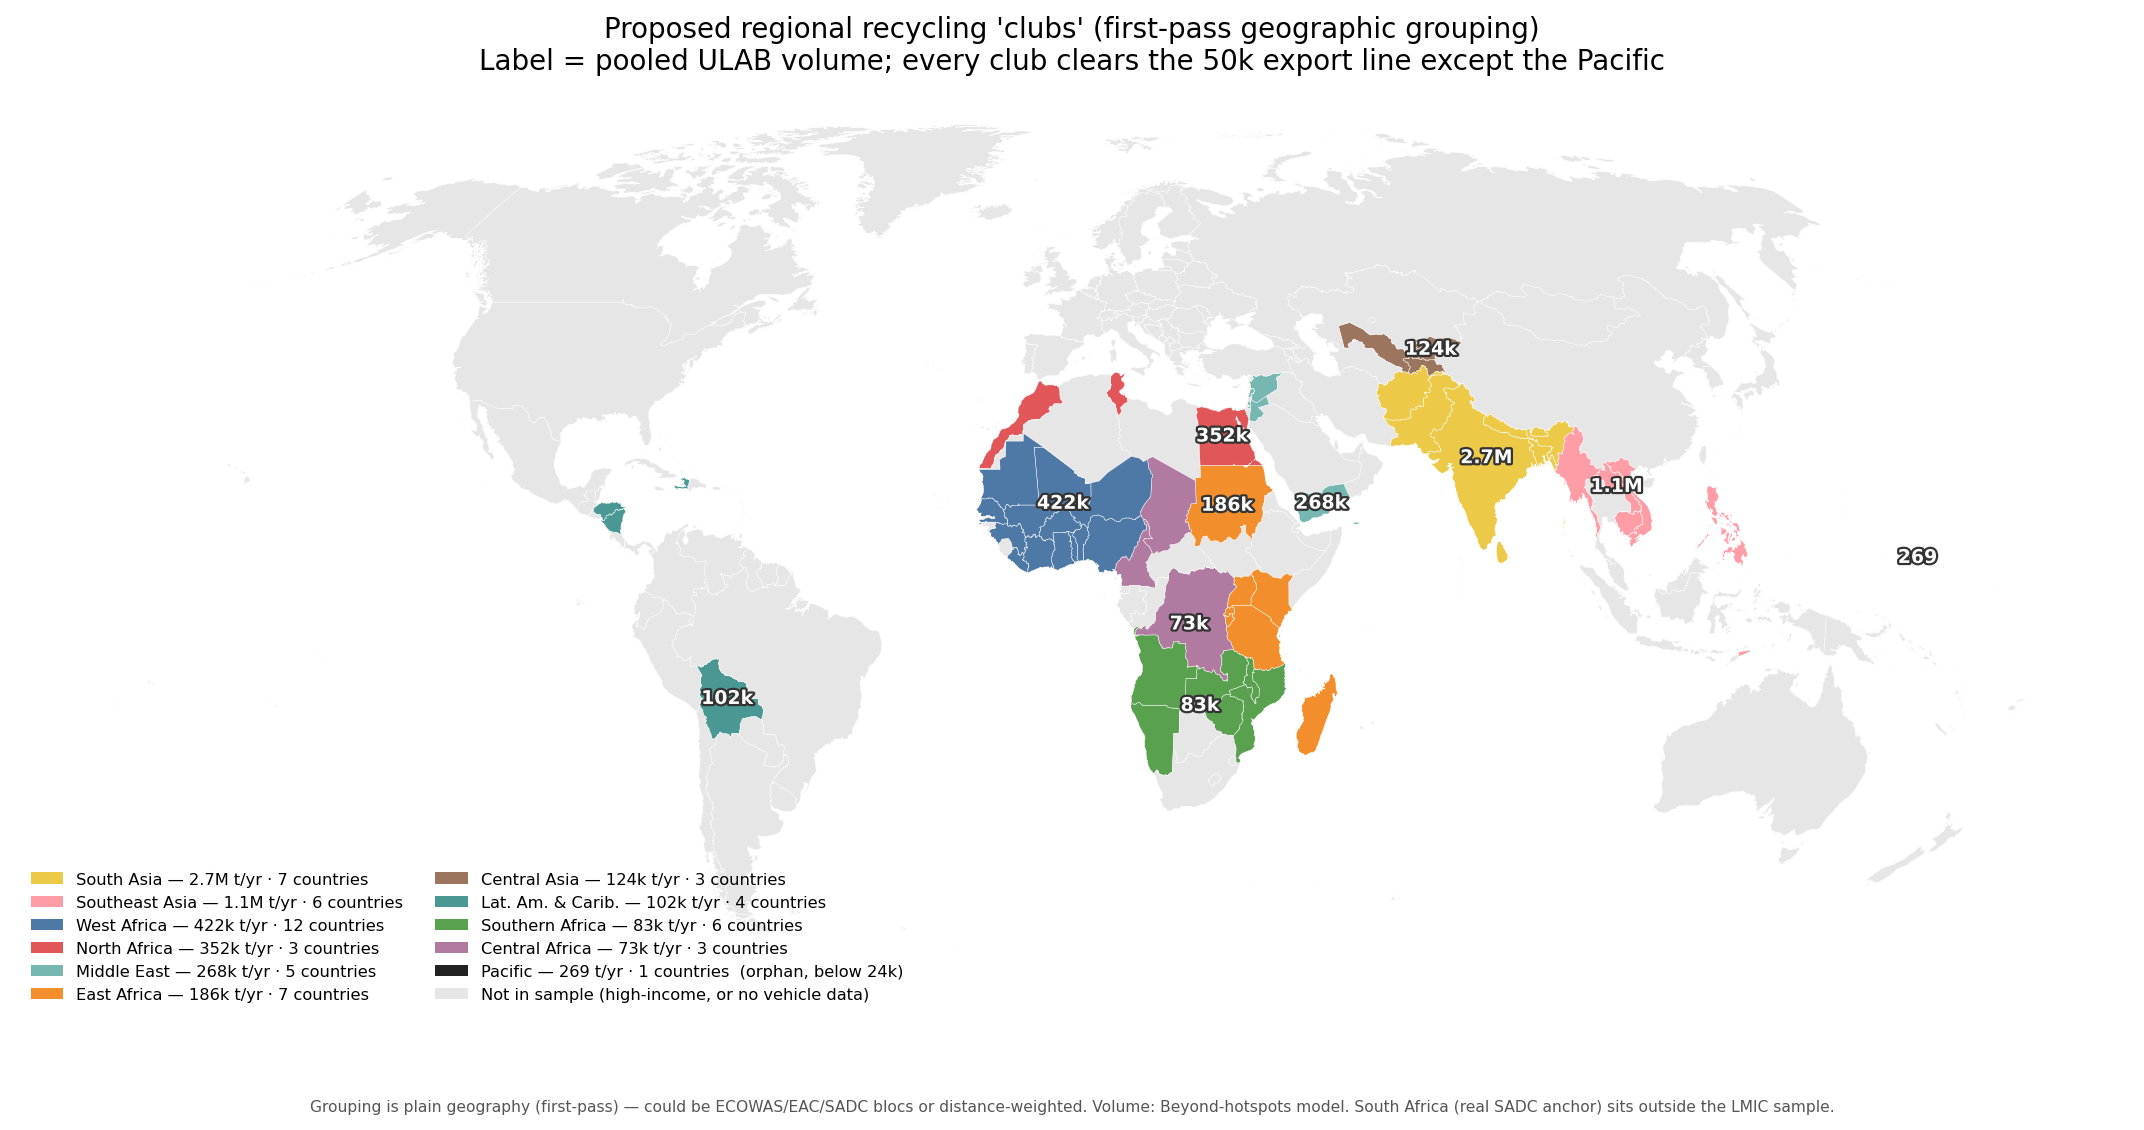
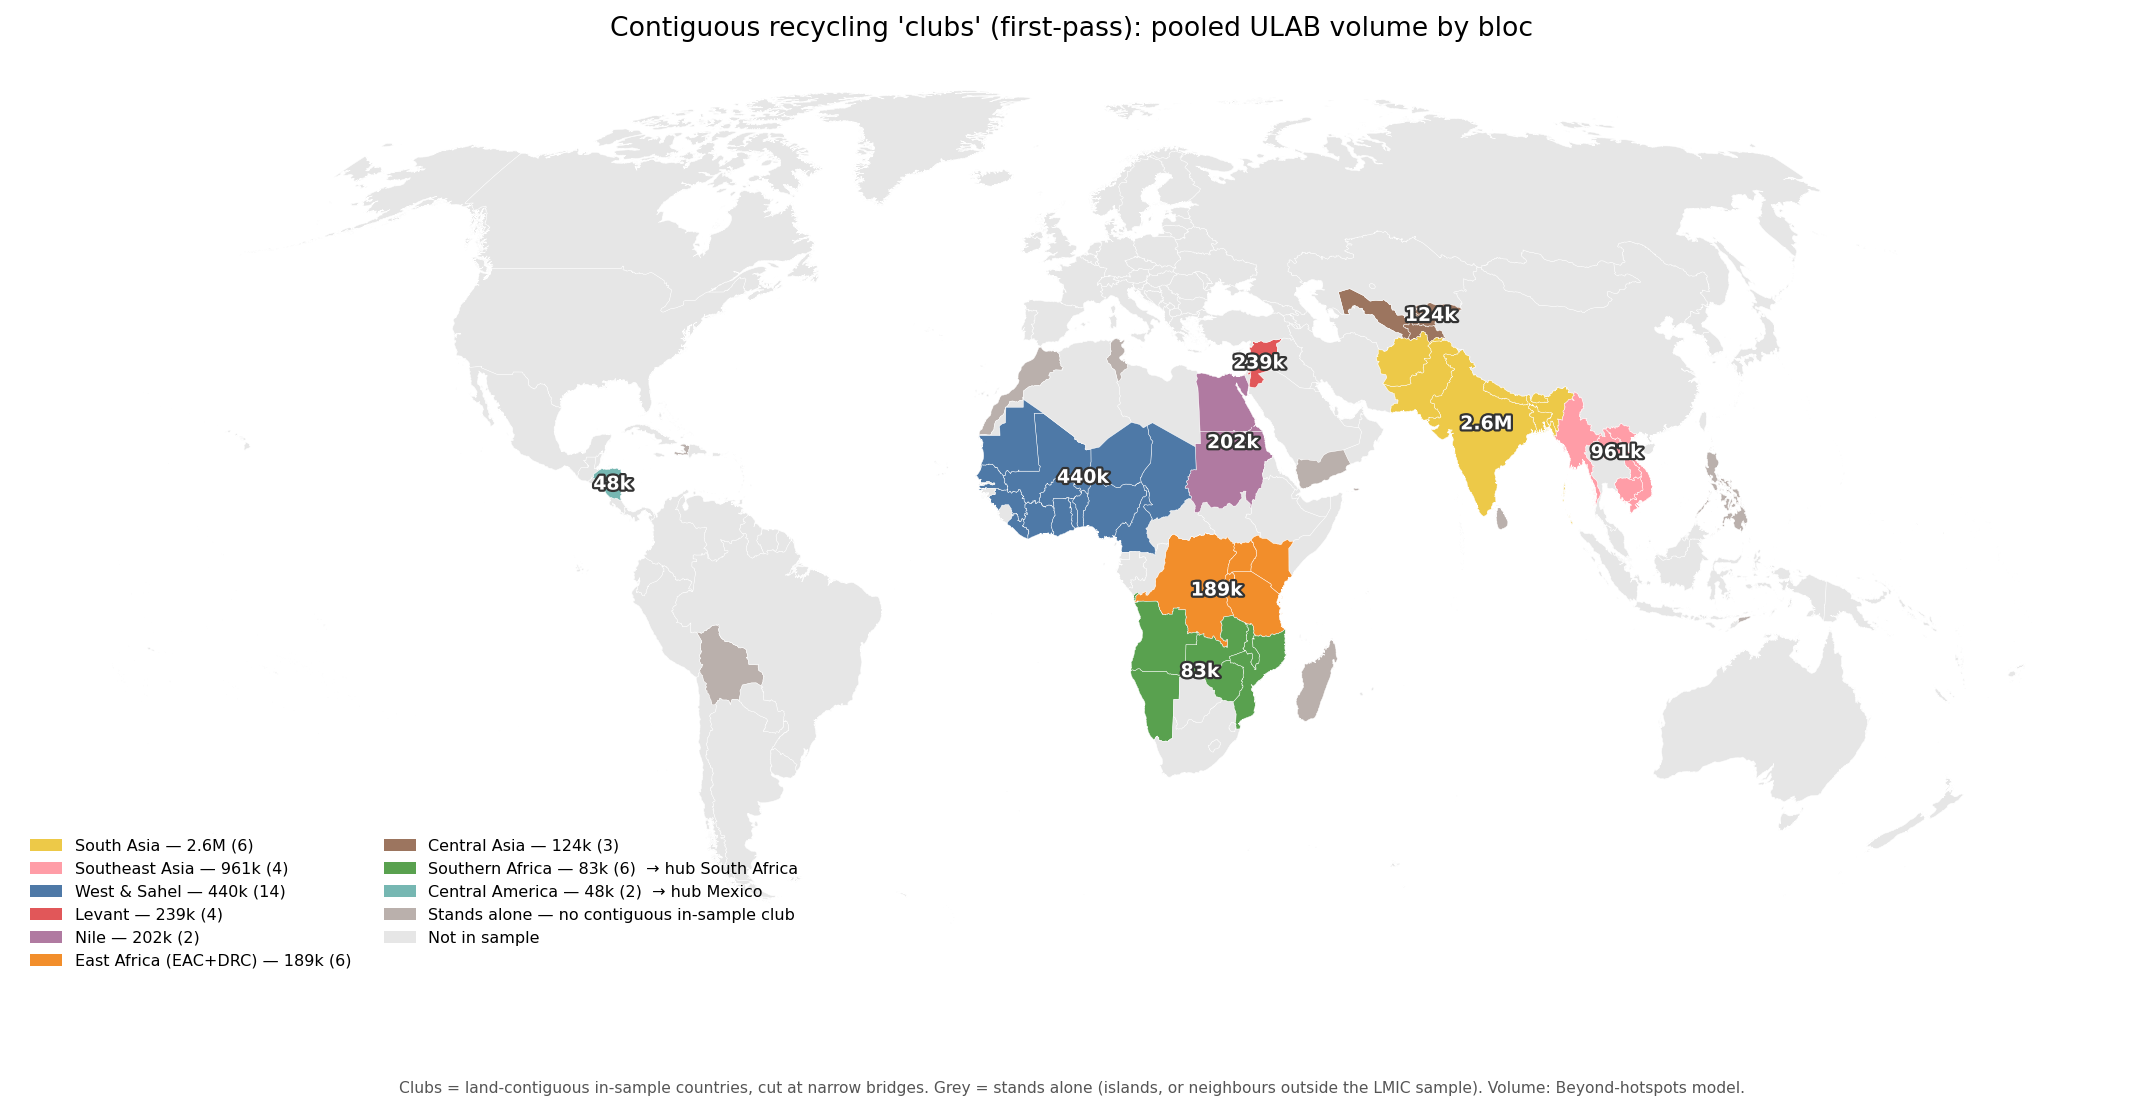
Switch to contiguous-club grouping (shared regions.py); update maps, captions, data

diff --git a/index.html b/index.html
@@ -38,7 +38,7 @@
   <h2>2. But pooling regionally reaches scale almost everywhere</h2>
   <figure>
     <img src="fig2_regional_clubs.png" alt="Pooled regional ULAB volume vs threshold band">
-    <figcaption>Pooled ULAB volume by region. Every region except the Pacific clears not just break-even (24k) but the full 50k export line. 18 of the 19 individually-below-floor countries sit in a region whose combined volume would support a safe facility.</figcaption>
+    <figcaption>Pooled volume by contiguous club &mdash; sets of countries that share land borders. Eight of the nine multi-country clubs clear the 50k line; Central America clears only break-even. Countries with no contiguous in-sample neighbour (islands, or those whose neighbours sit outside the sample) are shown in grey and stand alone &mdash; some clear on their own (Morocco, Philippines, Sri Lanka, Tunisia, Bolivia), three small islands do not (Haiti, Micronesia, Timor-Leste).</figcaption>
   </figure>
 
   <h2>3. The viability map</h2>
@@ -50,7 +50,7 @@
   <h2>4. Proposed regional &ldquo;clubs&rdquo;</h2>
   <figure>
     <img src="fig4_map_clubs.png" alt="World map of proposed regional recycling clubs">
-    <figcaption>A first-pass geographic grouping into regional catchments, each labelled with its pooled volume. Grouping is plain geography for now &mdash; it could instead follow ECOWAS/EAC/SADC blocs or be weighted by transport distance.</figcaption>
+    <figcaption>Contiguous recycling clubs: each coloured cluster is a set of land-bordering countries, cut at the narrow bridges so no club spans a continent. Grey countries stand alone, with no contiguous in-sample partner. Two clubs lean on a hub outside the low- and middle-income sample &mdash; South Africa for Southern Africa, Mexico for Central America.</figcaption>
   </figure>
 
   <footer>

diff --git a/code/02_regional_clubs.py b/code/02_regional_clubs.py
@@ -1,82 +1,48 @@
-"""
-Regional aggregation ("clubbing") — could sub-threshold countries pool to viable scale?
-Reads data/ulab_volume_by_country.csv (from 01_*). Groups the 57 LMICs into geographic
-sub-regions, sums ULAB volume, and flags which individually-below-floor countries sit in
-a region whose pooled volume clears the safe-recycling break-even (24k whole-battery t/yr).
-First-pass geographic grouping — open to regrouping (ECOWAS/EAC/SADC, distance-weighted, etc.).
-NB: some regions' real anchor is an out-of-sample country (esp. South Africa for Southern Africa).
+"""Pooled ULAB volume by contiguous club vs the safe-recycling band.
+
+Clubs come from regions.py (land-contiguous in-sample countries, cut at narrow bridges).
+Single-country "clubs" are countries with no contiguous in-sample neighbour (islands or
+countries whose neighbours are outside the LMIC sample) — drawn in the standalone colour.
 """
 from pathlib import Path
 import pandas as pd, numpy as np
 import matplotlib; matplotlib.use("Agg"); import matplotlib.pyplot as plt
+from regions import CLUB, CLUB_COLORS, STANDALONE
 
 BASE = Path(__file__).resolve().parent.parent  # project/repo root (this file is in code/)
 T_MOD, T_BE, T_EXP = 12_000, 24_000, 50_000
 
 df = pd.read_csv(BASE / "data" / "ulab_volume_by_country.csv")
+df["club"] = df["iso3"].map(CLUB)
+if df["club"].isna().any():
+    print("UNMAPPED:", df.loc[df["club"].isna(), "iso3"].tolist())
 
-REGION = {
- 'NGA':'West Africa','GHA':'West Africa','SEN':'West Africa','CIV':'West Africa','MLI':'West Africa',
- 'BFA':'West Africa','NER':'West Africa','BEN':'West Africa','TGO':'West Africa','GIN':'West Africa',
- 'LBR':'West Africa','MRT':'West Africa',
- 'COD':'Central Africa','CMR':'Central Africa','TCD':'Central Africa',
- 'KEN':'East Africa','TZA':'East Africa','UGA':'East Africa','RWA':'East Africa','BDI':'East Africa',
- 'SDN':'East Africa','MDG':'East Africa',
- 'ZMB':'Southern Africa','ZWE':'Southern Africa','MWI':'Southern Africa','MOZ':'Southern Africa',
- 'AGO':'Southern Africa','NAM':'Southern Africa',
- 'EGY':'North Africa','TUN':'North Africa','MAR':'North Africa',
- 'JOR':'Middle East','LBN':'Middle East','SYR':'Middle East','PSE':'Middle East','YEM':'Middle East',
- 'IND':'South Asia','PAK':'South Asia','BGD':'South Asia','NPL':'South Asia','BTN':'South Asia',
- 'LKA':'South Asia','AFG':'South Asia',
- 'VNM':'Southeast Asia','MMR':'Southeast Asia','KHM':'Southeast Asia','LAO':'Southeast Asia',
- 'PHL':'Southeast Asia','TLS':'Southeast Asia',
- 'UZB':'Central Asia','TJK':'Central Asia','KGZ':'Central Asia',
- 'BOL':'Lat. Am. & Carib.','HND':'Lat. Am. & Carib.','NIC':'Lat. Am. & Carib.','HTI':'Lat. Am. & Carib.',
- 'FSM':'Pacific',
-}
-EXT_ANCHOR = {'Southern Africa':'South Africa (out of sample; First Battery/Frys already operate)'}
+g = df.groupby("club").agg(total=("ulab_t", "sum"), n=("iso3", "size")).reset_index()
+g["is_club"] = g["n"] > 1
+g = g.sort_values("total").reset_index(drop=True)
+g.to_csv(BASE / "data" / "clubs.csv", index=False)
+print(g.sort_values("total", ascending=False).to_string(formatters={"total": "{:,.0f}".format}))
 
-df['region'] = df['iso3'].map(REGION)
-unmapped = df[df['region'].isna()]
-if len(unmapped): print("UNMAPPED:", unmapped[['country','iso3']].values.tolist())
-
-g = (df.groupby('region')
-       .agg(total=('ulab_t','sum'), n=('iso3','size'),
-            n_below_floor=('ulab_t', lambda s:int((s<T_MOD).sum())),
-            biggest=('ulab_t','max'))
-       .reset_index().sort_values('total', ascending=False))
-g['clears_breakeven'] = g['total'] >= T_BE
-g.to_csv(BASE / "data" / "regional_clubs.csv", index=False)
-print(g.to_string(formatters={'total':'{:,.0f}'.format,'biggest':'{:,.0f}'.format}))
-
-df['region_total'] = df['region'].map(g.set_index('region')['total'])
-below = df[df['ulab_t'] < T_MOD].copy()
-below['rescued'] = below['region_total'] >= T_BE
-print(f"\nBelow-floor countries: {len(below)}")
-print(f"  rescued by regional club (region total >= 24k): {int(below['rescued'].sum())}")
-print(f"  orphans (region also below 24k): {int((~below['rescued']).sum())}")
-print(below[['country','region','ulab_t','region_total','rescued']]
-        .sort_values(['region_total','ulab_t']).to_string(formatters={'ulab_t':'{:,.0f}'.format,'region_total':'{:,.0f}'.format}))
-
-# figure
-g2 = g.sort_values('total')
-fig, ax = plt.subplots(figsize=(9, 5.6))
-y = np.arange(len(g2))
-ax.axvspan(T_MOD, T_EXP, color='grey', alpha=0.10, zorder=0)
-ax.scatter(g2['total'], y, s=70, color='#4C78A8', zorder=3)
-for t, lab in [(T_MOD,'modular 12k'),(T_BE,'break-even 24k'),(T_EXP,'export line 50k')]:
-    ax.axvline(t, color='grey', ls='--', lw=0.8)
-    ax.text(t, len(g2)-0.3, lab, rotation=90, va='top', ha='right', fontsize=7, color='grey')
-ax.set_xscale('log')
-ax.set_yticks(y); ax.set_yticklabels(g2['region'], fontsize=9)
-ax.set_ylim(-0.7, len(g2)-0.2)
-for yi, (_, r) in zip(y, g2.iterrows()):
-    ax.text(r['total']*1.15, yi, f"{int(r['n'])} countries · {int(r['n_below_floor'])} below floor",
-            va='center', ha='left', fontsize=7, color='#333')
-ax.set_xlim(right=ax.get_xlim()[1]*6)
-ax.set_xlabel("Pooled regional ULAB — tonnes of whole batteries/yr (log scale)")
-ax.set_title("If they clubbed together: pooled regional ULAB vs the safe-recycling band (first-pass)", fontsize=10.5)
-for s in ['top','right']: ax.spines[s].set_visible(False)
+fig, ax = plt.subplots(figsize=(8.6, 8.2))
+y = np.arange(len(g))
+ax.axvspan(T_MOD, T_EXP, color="grey", alpha=0.10, zorder=0)
+ax.scatter(g["total"], y, c=[CLUB_COLORS.get(c, STANDALONE) for c in g["club"]], s=46, zorder=3)
+for t, lab in [(T_MOD, "modular 12k"), (T_BE, "break-even 24k"), (T_EXP, "export line 50k")]:
+    ax.axvline(t, color="grey", ls="--", lw=0.8)
+    ax.text(t, len(g) - 0.3, lab, rotation=90, va="top", ha="right", fontsize=7, color="grey")
+ax.set_xscale("log")
+ax.set_yticks(y)
+ax.set_yticklabels([f"{c}  ({int(n)})" if isc else c for c, n, isc in zip(g["club"], g["n"], g["is_club"])],
+                   fontsize=8)
+ax.set_ylim(-1, len(g) + 2)
+ax.set_xlabel("Pooled ULAB volume — tonnes of whole batteries/yr (log scale)")
+ax.set_title("Contiguous clubs vs the safe-recycling band (first-pass, exploratory)", fontsize=11)
+for s in ["top", "right"]:
+    ax.spines[s].set_visible(False)
+ax.text(0.02, 0.02,
+        "Coloured = multi-country contiguous club (n countries).  Grey = stands alone, no contiguous\n"
+        "in-sample neighbour.  Band: Engitec modular (12k) / Dalberg-USAID break-even (24k) & line (50k).",
+        transform=ax.transAxes, fontsize=7, color="#444", va="bottom")
 plt.tight_layout()
-fig.savefig(BASE / "output" / "fig2_regional_clubs.png", dpi=150, bbox_inches='tight')
-print("\nSaved: output/fig2_regional_clubs.png  and  data/regional_clubs.csv")
+fig.savefig(BASE / "output" / "fig2_regional_clubs.png", dpi=150, bbox_inches="tight")
+print("saved output/fig2_regional_clubs.png and data/clubs.csv")

diff --git a/code/04_map_clubs.py b/code/04_map_clubs.py
@@ -1,75 +1,51 @@
-"""World choropleth coloured by proposed regional recycling 'club' (first-pass geographic grouping).
-Each club labelled with pooled ULAB volume (whole-battery t/yr). Grouping == 02_regional_clubs.py."""
+"""World choropleth coloured by contiguous recycling 'club'; standalone countries in one colour.
+
+Grouping from regions.py. Multi-country clubs are labelled with pooled ULAB volume at their centroid.
+"""
 from pathlib import Path
 import pandas as pd, geopandas as gpd
 import matplotlib; matplotlib.use("Agg"); import matplotlib.pyplot as plt
 import matplotlib.patheffects as pe
 from matplotlib.patches import Patch
+from regions import CLUB, CLUB_COLORS, STANDALONE, NOT_IN_SAMPLE, HUB_OUT_OF_SAMPLE
 
 BASE = Path(__file__).resolve().parent.parent  # project/repo root (this file is in code/)
-T_BE = 24_000
-
-REGION = {
- 'NGA':'West Africa','GHA':'West Africa','SEN':'West Africa','CIV':'West Africa','MLI':'West Africa',
- 'BFA':'West Africa','NER':'West Africa','BEN':'West Africa','TGO':'West Africa','GIN':'West Africa',
- 'LBR':'West Africa','MRT':'West Africa',
- 'COD':'Central Africa','CMR':'Central Africa','TCD':'Central Africa',
- 'KEN':'East Africa','TZA':'East Africa','UGA':'East Africa','RWA':'East Africa','BDI':'East Africa',
- 'SDN':'East Africa','MDG':'East Africa',
- 'ZMB':'Southern Africa','ZWE':'Southern Africa','MWI':'Southern Africa','MOZ':'Southern Africa',
- 'AGO':'Southern Africa','NAM':'Southern Africa',
- 'EGY':'North Africa','TUN':'North Africa','MAR':'North Africa',
- 'JOR':'Middle East','LBN':'Middle East','SYR':'Middle East','PSE':'Middle East','YEM':'Middle East',
- 'IND':'South Asia','PAK':'South Asia','BGD':'South Asia','NPL':'South Asia','BTN':'South Asia',
- 'LKA':'South Asia','AFG':'South Asia',
- 'VNM':'Southeast Asia','MMR':'Southeast Asia','KHM':'Southeast Asia','LAO':'Southeast Asia',
- 'PHL':'Southeast Asia','TLS':'Southeast Asia',
- 'UZB':'Central Asia','TJK':'Central Asia','KGZ':'Central Asia',
- 'BOL':'Lat. Am. & Carib.','HND':'Lat. Am. & Carib.','NIC':'Lat. Am. & Carib.','HTI':'Lat. Am. & Carib.',
- 'FSM':'Pacific',
-}
-RC = {'West Africa':'#4E79A7','East Africa':'#F28E2B','Southern Africa':'#59A14F','Central Africa':'#B07AA1',
-      'North Africa':'#E15759','Middle East':'#76B7B2','South Asia':'#EDC948','Southeast Asia':'#FF9DA7',
-      'Central Asia':'#9C755F','Lat. Am. & Carib.':'#499894','Pacific':'#222222'}
-GREY = '#E6E6E6'
 
 def fmt(x):
-    return f"{x/1e6:.1f}M" if x>=1e6 else (f"{x/1e3:.0f}k" if x>=1e3 else f"{x:.0f}")
+    return f"{x/1e6:.1f}M" if x >= 1e6 else (f"{x/1e3:.0f}k" if x >= 1e3 else f"{x:.0f}")
 
-world = gpd.read_file(BASE/"data"/"geo"/"ne_10m_admin_0_countries.shp")
-df = pd.read_csv(BASE/"data"/"ulab_volume_by_country.csv")
-df['region'] = df['iso3'].map(REGION)
-tot = df.groupby('region')['ulab_t'].agg(total='sum', n='size')
-print(tot.sort_values('total', ascending=False).assign(total=lambda d: d['total'].map('{:,.0f}'.format)).to_string())
+world = gpd.read_file(BASE / "data" / "geo" / "ne_10m_admin_0_countries.shp")
+df = pd.read_csv(BASE / "data" / "ulab_volume_by_country.csv")
+df["club"] = df["iso3"].map(CLUB)
+tot = df.groupby("club")["ulab_t"].agg(total="sum", n="size")
 
-w = world.merge(df[['iso3','region']], left_on='ISO_A3', right_on='iso3', how='left')
-w['fill'] = w['region'].map(RC).fillna(GREY)
-w = w[w['ISO_A3']!='ATA'].to_crs('+proj=robin')
+w = world.merge(df[["iso3", "club"]], left_on="ISO_A3", right_on="iso3", how="left")
+w["fill"] = w["club"].map(lambda c: CLUB_COLORS.get(c, STANDALONE) if isinstance(c, str) else NOT_IN_SAMPLE)
+w = w[w["ISO_A3"] != "ATA"].to_crs("+proj=robin")
 
-fig, ax = plt.subplots(figsize=(13.5, 7.2))
-w.plot(ax=ax, color=w['fill'].tolist(), edgecolor='white', linewidth=0.2)
+fig, ax = plt.subplots(figsize=(13.5, 7.4))
+w.plot(ax=ax, color=w["fill"].tolist(), edgecolor="white", linewidth=0.2)
 ax.set_axis_off()
 
-clubs = w[w['region'].notna()].dissolve(by='region')
-for region, row in clubs.iterrows():
+clubs = w[w["club"].isin(CLUB_COLORS)].dissolve(by="club")
+for club, row in clubs.iterrows():
     pt = row.geometry.representative_point()
-    ax.annotate(fmt(tot.loc[region,'total']), (pt.x, pt.y), ha='center', va='center',
-                fontsize=8.5, fontweight='bold', color='white',
-                path_effects=[pe.withStroke(linewidth=2.0, foreground='#333')])
+    ax.annotate(fmt(tot.loc[club, "total"]), (pt.x, pt.y), ha="center", va="center", fontsize=8.5,
+                fontweight="bold", color="white", path_effects=[pe.withStroke(linewidth=2.0, foreground="#333")])
 
-order = tot.sort_values('total', ascending=False).index
-handles = [Patch(facecolor=RC[r],
-                 label=f"{r} — {fmt(tot.loc[r,'total'])} t/yr · {int(tot.loc[r,'n'])} countries"
-                       + ("  (orphan, below 24k)" if tot.loc[r,'total'] < T_BE else ""))
-           for r in order]
-handles.append(Patch(facecolor=GREY, label="Not in sample (high-income, or no vehicle data)"))
-ax.legend(handles=handles, loc='lower left', fontsize=7.3, frameon=False, ncol=2, bbox_to_anchor=(0.0, -0.02))
-ax.set_title("Proposed regional recycling 'clubs' (first-pass geographic grouping)\n"
-             "Label = pooled ULAB volume; every club clears the 50k export line except the Pacific",
-             fontsize=12.5)
-plt.figtext(0.5, 0.005, "Grouping is plain geography (first-pass) — could be ECOWAS/EAC/SADC blocs or distance-weighted. "
-            "Volume: Beyond-hotspots model. South Africa (real SADC anchor) sits outside the LMIC sample.",
-            ha='center', fontsize=7, color='#555')
+order = [c for c in tot.sort_values("total", ascending=False).index if c in CLUB_COLORS]
+handles = [Patch(facecolor=CLUB_COLORS[c],
+                 label=f"{c} — {fmt(tot.loc[c,'total'])} ({int(tot.loc[c,'n'])})"
+                       + (f"  → hub {HUB_OUT_OF_SAMPLE[c]}" if c in HUB_OUT_OF_SAMPLE else ""))
+           for c in order]
+handles.append(Patch(facecolor=STANDALONE, label="Stands alone — no contiguous in-sample club"))
+handles.append(Patch(facecolor=NOT_IN_SAMPLE, label="Not in sample"))
+ax.legend(handles=handles, loc="lower left", fontsize=7.2, frameon=False, ncol=2, bbox_to_anchor=(0.0, -0.02))
+ax.set_title("Contiguous recycling 'clubs' (first-pass): pooled ULAB volume by bloc", fontsize=12)
+plt.figtext(0.5, 0.005,
+            "Clubs = land-contiguous in-sample countries, cut at narrow bridges. Grey = stands alone "
+            "(islands, or neighbours outside the LMIC sample). Volume: Beyond-hotspots model.",
+            ha="center", fontsize=7, color="#555")
 plt.tight_layout()
-fig.savefig(BASE/"output"/"fig4_map_clubs.png", dpi=160, bbox_inches='tight')
-print("\nsaved fig4_map_clubs.png")
+fig.savefig(BASE / "output" / "fig4_map_clubs.png", dpi=160, bbox_inches="tight")
+print("saved output/fig4_map_clubs.png")

diff --git a/code/regions.py b/code/regions.py
@@ -1,0 +1,52 @@
+"""Canonical contiguous-club grouping + colours for the ULAB recycling-scale figures.
+
+Shared by 02_regional_clubs.py and 04_map_clubs.py so the bar chart and the map can never drift.
+
+A "club" is a set of land-contiguous in-sample countries, cut at the narrow trans-regional
+bridges (e.g. Myanmar between South and Southeast Asia; the Chad-Sudan and Egypt-Gaza seams)
+so chains don't span a continent. Countries with no contiguous in-sample neighbour stand alone
+(islands, or countries whose neighbours are all outside the 57-country LMIC sample).
+"""
+
+CLUB = {
+    # West & Sahel (ECOWAS + Cameroon + Chad)
+    'NGA': 'West & Sahel', 'NER': 'West & Sahel', 'BEN': 'West & Sahel', 'TGO': 'West & Sahel',
+    'GHA': 'West & Sahel', 'BFA': 'West & Sahel', 'MLI': 'West & Sahel', 'SEN': 'West & Sahel',
+    'MRT': 'West & Sahel', 'GIN': 'West & Sahel', 'LBR': 'West & Sahel', 'CIV': 'West & Sahel',
+    'CMR': 'West & Sahel', 'TCD': 'West & Sahel',
+    # Nile
+    'EGY': 'Nile', 'SDN': 'Nile',
+    # Levant
+    'JOR': 'Levant', 'LBN': 'Levant', 'SYR': 'Levant', 'PSE': 'Levant',
+    # East Africa (EAC core + DRC)
+    'KEN': 'East Africa (EAC+DRC)', 'TZA': 'East Africa (EAC+DRC)', 'UGA': 'East Africa (EAC+DRC)',
+    'RWA': 'East Africa (EAC+DRC)', 'BDI': 'East Africa (EAC+DRC)', 'COD': 'East Africa (EAC+DRC)',
+    # Southern Africa
+    'ZMB': 'Southern Africa', 'ZWE': 'Southern Africa', 'MWI': 'Southern Africa',
+    'MOZ': 'Southern Africa', 'AGO': 'Southern Africa', 'NAM': 'Southern Africa',
+    # South Asia
+    'IND': 'South Asia', 'PAK': 'South Asia', 'BGD': 'South Asia', 'NPL': 'South Asia',
+    'BTN': 'South Asia', 'AFG': 'South Asia',
+    # Southeast Asia
+    'VNM': 'Southeast Asia', 'MMR': 'Southeast Asia', 'LAO': 'Southeast Asia', 'KHM': 'Southeast Asia',
+    # Central Asia
+    'UZB': 'Central Asia', 'TJK': 'Central Asia', 'KGZ': 'Central Asia',
+    # Central America
+    'HND': 'Central America', 'NIC': 'Central America',
+    # Stand alone — no contiguous in-sample neighbour
+    'MAR': 'Morocco', 'TUN': 'Tunisia', 'YEM': 'Yemen', 'BOL': 'Bolivia', 'LKA': 'Sri Lanka',
+    'PHL': 'Philippines', 'MDG': 'Madagascar', 'HTI': 'Haiti', 'FSM': 'Micronesia', 'TLS': 'Timor-Leste',
+}
+
+# Colours for the multi-country contiguous clubs. Any club not listed here is a single country
+# that stands alone and is drawn in STANDALONE.
+CLUB_COLORS = {
+    'West & Sahel': '#4E79A7', 'East Africa (EAC+DRC)': '#F28E2B', 'Southern Africa': '#59A14F',
+    'Nile': '#B07AA1', 'Levant': '#E15759', 'South Asia': '#EDC948', 'Southeast Asia': '#FF9DA7',
+    'Central Asia': '#9C755F', 'Central America': '#76B7B2',
+}
+STANDALONE = '#BAB0AC'   # countries with no contiguous in-sample club
+NOT_IN_SAMPLE = '#E6E6E6'
+
+# Clubs whose realistic recycling hub is a non-LMIC neighbour outside the 57-country sample.
+HUB_OUT_OF_SAMPLE = {'Southern Africa': 'South Africa', 'Central America': 'Mexico'}

diff --git a/README.md b/README.md
@@ -7,24 +7,25 @@ Preliminary working figures (draft, subject to change).
 Safe lead-acid battery recycling only pays at scale. These figures estimate annual used
 lead-acid battery (ULAB) volume for 57 low- and middle-income countries, compare it with the
 scale a safe recycling plant needs, and ask which sub-threshold countries could reach that
-scale by pooling regionally.
+scale by pooling with land-contiguous neighbours.
 
 ## Figures
 - `fig1_volume_vs_threshold.png` — countries ranked by ULAB volume vs the 12k / 24k / 50k band
-- `fig2_regional_clubs.png` — pooled regional volume vs the band
+- `fig2_regional_clubs.png` — pooled volume by contiguous club vs the band
 - `fig3_map.png` — world map coloured by individual viability
-- `fig4_map_clubs.png` — world map of proposed regional "clubs"
+- `fig4_map_clubs.png` — world map of contiguous recycling "clubs"
 
 ## Code (`code/`)
-- `01_ulab_volume_vs_threshold.py` — convert lead generation to whole-battery ULAB tonnes; classify vs band; figure 1
-- `02_regional_clubs.py` — aggregate into regions; rescued vs orphan; figure 2
+- `regions.py` — canonical contiguous-club grouping + colours (shared by 02 and 04 so they can't drift)
+- `01_ulab_volume_vs_threshold.py` — lead generation to whole-battery ULAB tonnes; classify vs band; figure 1
+- `02_regional_clubs.py` — pool by contiguous club; figure 2
 - `03_map.py` — viability choropleth; figure 3
 - `04_map_clubs.py` — clubs choropleth; figure 4
 
 Requires Python 3 with `pandas`, `geopandas`, `matplotlib`.
 
 ## Data (`data/`)
-- `ulab_volume_by_country.csv`, `regional_clubs.csv` — the derived numbers behind the figures (included).
+- `ulab_volume_by_country.csv`, `clubs.csv` — the derived numbers behind the figures.
 - **Not redistributed here:** `sites_vehicles.dta`, the vehicle-demand model intermediate from the
   published "Beyond hotspots" paper (script 01's input). Available from the authors / paper replication.
 - **Not redistributed here:** the Natural Earth `ne_10m_admin_0_countries` shapefile used by the maps —